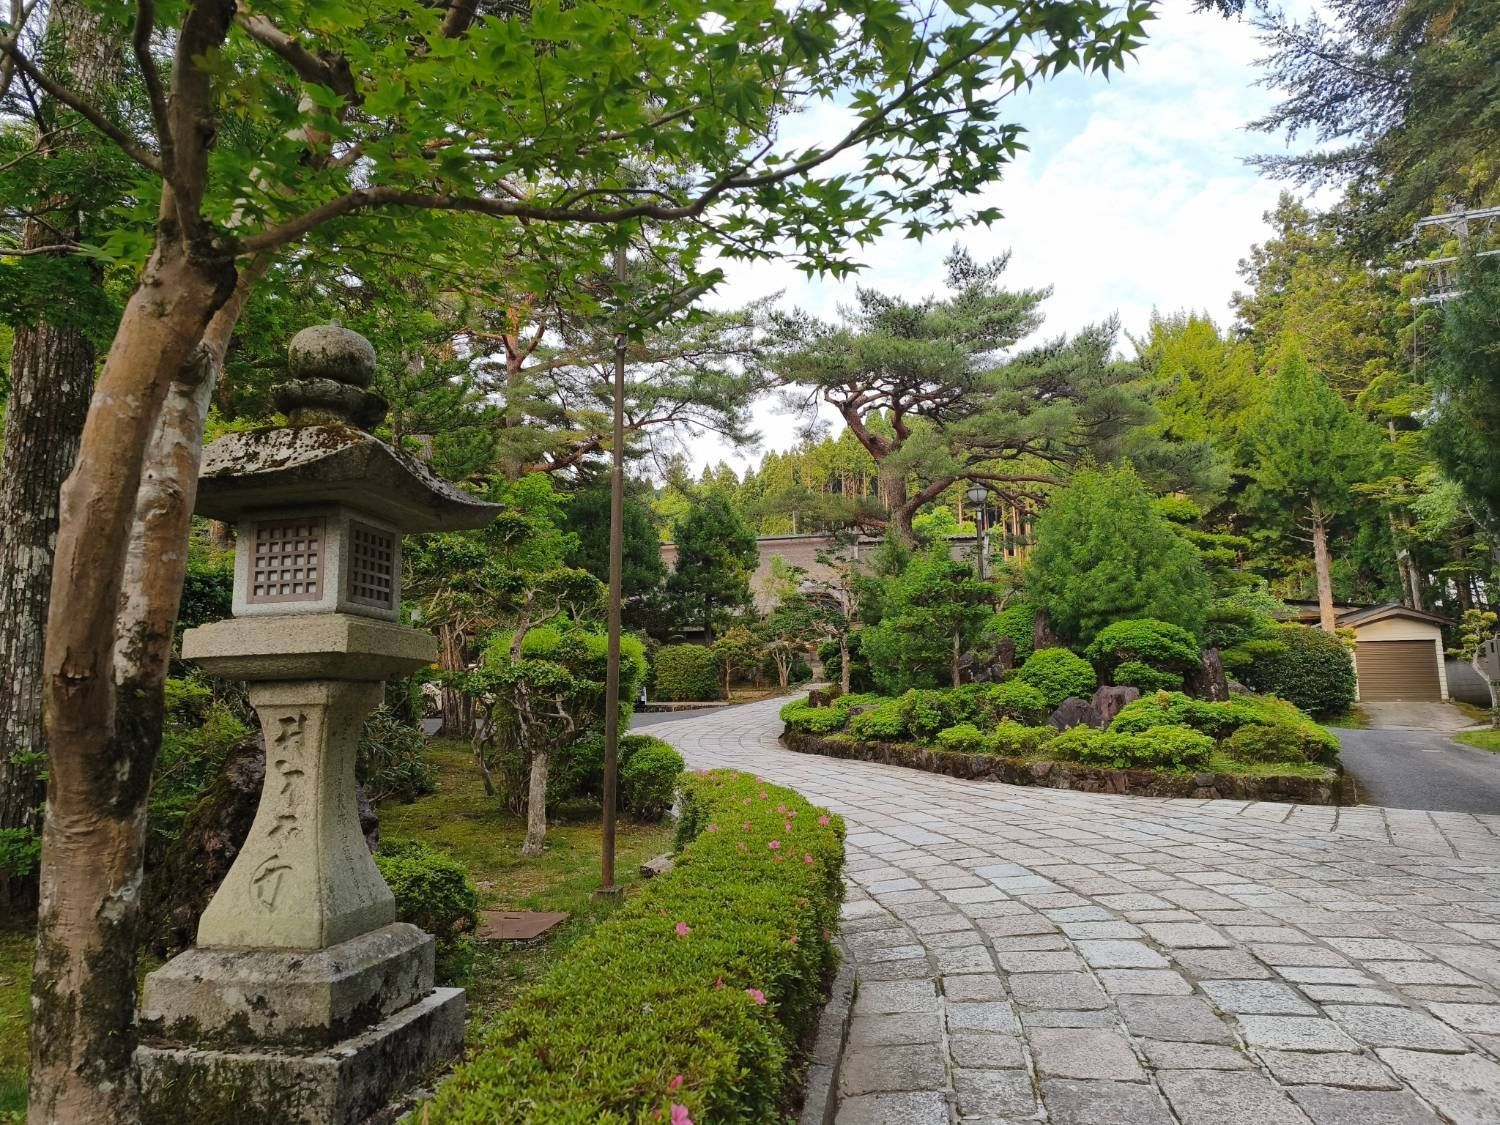
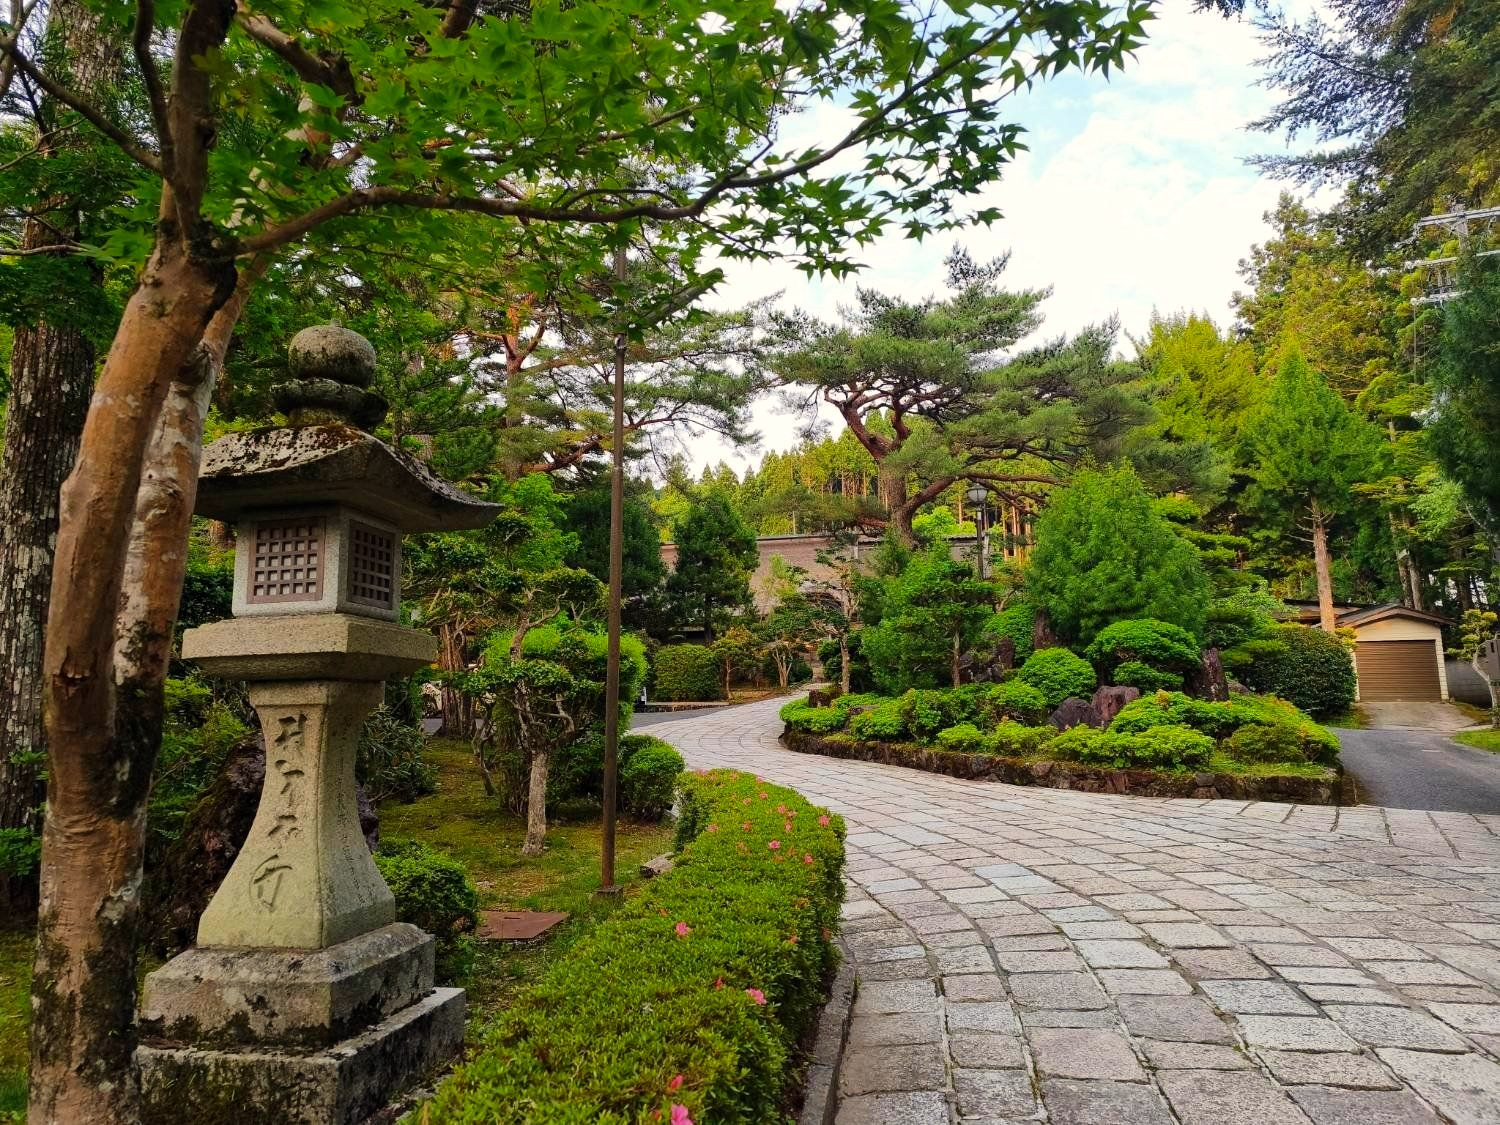
宿坊：見どころの山門を、入るまでの参道（石灯籠）の写真に

diff --git a/shukubo.html b/shukubo.html
@@ -971,7 +971,7 @@ main>section:not(:first-of-type):not(.interlude),main>nav.next,.sns,footer{conte
     <div class="body">
       <p class="mido-lead rv">ご宿泊の方は、院内をゆっくりとご覧いただけます。山門から本堂、江戸の絵師たちの筆、そして昭和の作庭家の庭へ。泊まるからこそ出会える景色です。</p>
       <div class="mido">
-        <figure class="rv-img"><img src="images/photos/sanmon-ki.webp" srcset="images/photos/sanmon-ki-960.webp 960w, images/photos/sanmon-ki.webp 1200w" sizes="(max-width: 899px) 100vw, 40vw" alt="大きな木の枝がかかる、白壁の山門" width="1200" height="1600" loading="lazy" style="aspect-ratio:4/3;object-position:center 72%"><figcaption class="rv"><b>山門</b><span>バス通りから歩いて2〜3分。御門までの道のりには木々が整い、静寂の中へ引き込まれていくようです。</span></figcaption></figure>
+        <figure class="rv-img"><img src="images/photos/sando-hiru.webp" srcset="images/photos/sando-hiru-960.webp 960w, images/photos/sando-hiru.webp 1500w" sizes="(max-width: 899px) 100vw, 40vw" alt="石灯籠のそばを、木々の間をゆるやかに曲がって山門へ続く石畳の参道" width="1500" height="1125" loading="lazy"><figcaption class="rv"><b>山門</b><span>バス通りから歩いて2〜3分。御門までの道のりには木々が整い、静寂の中へ引き込まれていくようです。</span></figcaption></figure>
         <figure class="rv-img"><img src="images/photos/hondo-gaikan.webp" srcset="images/photos/hondo-gaikan-960.webp 960w, images/photos/hondo-gaikan.webp 1600w" sizes="(max-width: 899px) 100vw, 60vw" alt="本覚院の本堂の外観" width="1600" height="1200" loading="lazy"><figcaption class="rv"><b>本堂</b><span>高野山真言宗 総本山金剛峯寺の塔頭寺院、別格本山。智証大師作の不動明王像をご本尊としてお祀りしています。朝のお勤めもこちらで行います。</span></figcaption></figure>
         <figure class="w rv-img"><img src="images/photos/tenjoue.webp" srcset="images/photos/tenjoue-960.webp 960w, images/photos/tenjoue.webp 1600w" sizes="(max-width: 899px) 100vw, 60vw" alt="本覚院の極彩色の天井絵と、灯りのともる灯籠" width="1600" height="1067" loading="lazy" style="object-position:center 15%"><figcaption class="rv"><b>本堂の天井絵</b><span>江戸時代のものが色彩豊かに残る、貴重な天井絵です。一枚一枚すべてに趣向を凝らした絵のはめ込み板が、本覚院の本堂を特徴づけています。建立から250年を経た今も、豊かな彩色を留めております。</span></figcaption></figure>
         <figure class="rv-img"><img src="images/photos/fusuma-kanoha.webp" srcset="images/photos/fusuma-kanoha-960.webp 960w, images/photos/fusuma-kanoha.webp 1600w" sizes="(max-width: 899px) 100vw, 60vw" alt="狩野派による金地の襖絵（唐人物図）" width="1600" height="1200" loading="lazy"><figcaption class="rv"><b>狩野派の襖絵</b><span>江戸時代に当院に滞在していた、狩野派の絵師による貴重な襖絵です。狩野派は、室町時代から江戸時代にかけて幕府の御用絵師を務めた、日本美術史を代表する絵師の一派です。</span></figcaption></figure>
